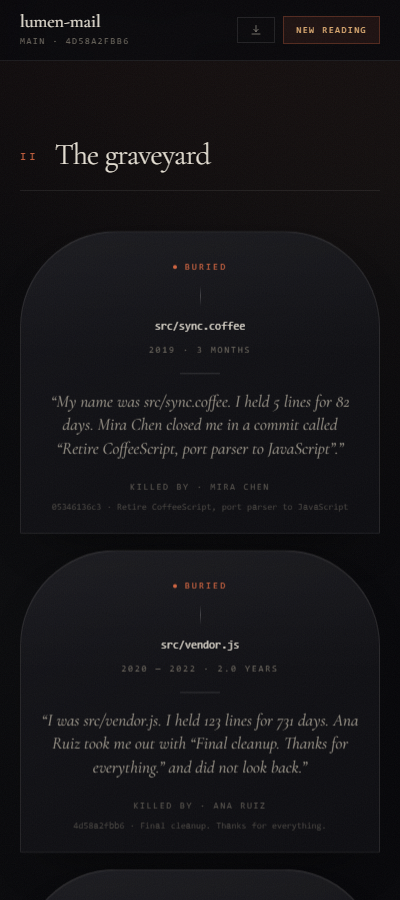
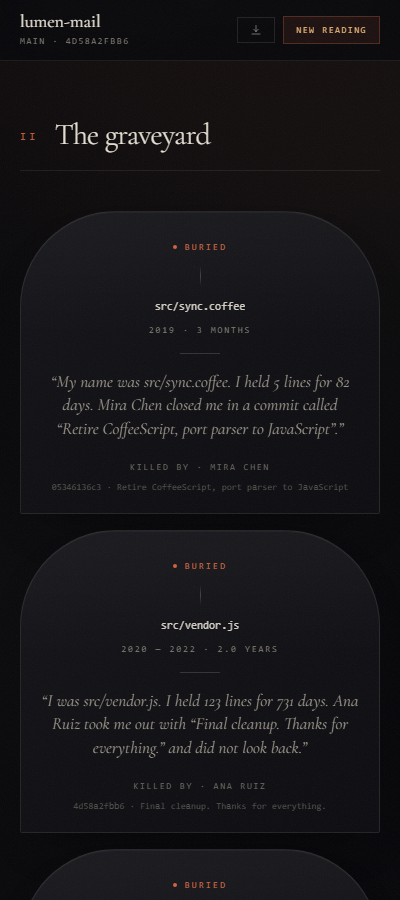
Skip unsuitable models, refresh screenshots, link the public repo

diff --git a/backend/lore.py b/backend/lore.py
@@ -97,8 +97,8 @@ def _pick_model(available: list[str]) -> str | None:
     def score(name: str) -> int:
         n = name.lower()
         s = 0
-        for family in ("qwen3", "gemma3", "gemma2", "llama3.1", "llama3", "mistral",
-                       "phi4", "phi3", "deepseek", "granite"):
+        for family in ("qwen3", "qwen2.5", "qwen2", "gemma3", "gemma2", "llama3.1",
+                       "llama3", "mistral", "phi4", "phi3", "deepseek", "granite"):
             if family in n:
                 s += 6
                 break
@@ -115,13 +115,19 @@ def _pick_model(available: list[str]) -> str | None:
             s -= 4
         return s
 
-    return max(available, key=score)
+    best = max(available, key=score)
+    # A vision or code model can spend the whole timeout before admitting it
+    # cannot write this. If nothing suitable is installed, fall back at once
+    # instead of making the visitor wait. OLLAMA_MODEL still forces a choice.
+    if score(best) <= 3:
+        return None
+    return best
 
 
 def _ollama_chat(messages: list[dict], json_mode: bool) -> str:
     model = _pick_model(_ollama_models())
     if not model:
-        raise ModelUnavailable("No Ollama model found")
+        raise ModelUnavailable("No suitable local model found")
     payload = {
         "model": model,
         "messages": messages,

diff --git a/backend/tests/test_lore.py b/backend/tests/test_lore.py
@@ -120,6 +120,22 @@ class PublicUrlTest(unittest.TestCase):
         )
 
 
+class ModelPickerTest(unittest.TestCase):
+    def test_vision_model_alone_is_skipped(self) -> None:
+        self.assertIsNone(lore._pick_model(["qwen3-vl:4b"]))
+
+    def test_coder_alone_is_skipped(self) -> None:
+        self.assertIsNone(lore._pick_model(["qwen2.5-coder:7b"]))
+
+    def test_instruct_model_beats_coder(self) -> None:
+        self.assertEqual(
+            lore._pick_model(["qwen2.5-coder:7b", "gemma3:4b"]), "gemma3:4b"
+        )
+
+    def test_text_thinking_model_is_usable(self) -> None:
+        self.assertEqual(lore._pick_model(["qwen3:8b"]), "qwen3:8b")
+
+
 class JsonBoundaryTest(unittest.TestCase):
     RECORD = {
         "meta": {

diff --git a/DEV_POST.md b/DEV_POST.md
@@ -3,13 +3,12 @@ title: "Every repository has ghosts: building RepoRequiem for Hacktoberfest Week
 published: false
 description: "A git archaeology tool that finds deleted files, revenants and cursed commits, then lets a local open-weight model speak for them — using only facts mined from git."
 tags: hf26challenge, ai, opensource, python
-cover_image: ""
+cover_image: "https://raw.githubusercontent.com/RameezHiro/reporequiem/main/docs/screenshots/hero-1440.png"
 ---
 
 <!--
 Draft notes (remove before publishing):
 - Upload the images in docs/screenshots/ to DEV and replace the relative paths.
-- Set the canonical repo URL and the live demo URL where marked TODO.
 - Read it once out loud; the voice should sound like you, not like a launch post.
 -->
 
@@ -26,7 +25,7 @@ reading is a haunted chatbot. I wanted the ghost to be something the machine was
 already carrying: the history it never shows you. So I built **RepoRequiem**, a
 git archaeology tool that exhumes a repository's dead and gives them a voice.
 
-![RepoRequiem landing page](docs/screenshots/landing-1440.png)
+![RepoRequiem landing page](https://raw.githubusercontent.com/RameezHiro/reporequiem/main/docs/screenshots/landing-1440.png)
 
 ## What it actually reads
 
@@ -52,7 +51,7 @@ On the bundled demo repository, that produces a record with 18 commits, 3
 authors, 8 buried files, one revenant, six cursed commits, one unmerged branch,
 and a CoffeeScript era that no longer exists anywhere in the working tree.
 
-![The dossier](docs/screenshots/hero-1440.png)
+![The dossier](https://raw.githubusercontent.com/RameezHiro/reporequiem/main/docs/screenshots/hero-1440.png)
 
 ## The rule: facts first, model second
 
@@ -102,7 +101,7 @@ Each buried file becomes a headstone. Open one and you get a certificate of
 removal: born, died, lifespan in days, churn, the hand that removed it, the
 commit message, and the last lines of the file as they were.
 
-![The graveyard](docs/screenshots/grave-1440.png)
+![The graveyard](https://raw.githubusercontent.com/RameezHiro/reporequiem/main/docs/screenshots/grave-1440.png)
 
 The details are what make it feel like a place rather than a dashboard. A file
 that lived for 82 days and was killed by a commit called "Retire CoffeeScript,
@@ -121,7 +120,7 @@ You can ask the archive questions. The retrieval step is intentionally simple:
 match the question against file paths, authors, and the facts block, then give
 the model only the matching evidence and the record.
 
-![The séance](docs/screenshots/seance-1440.png)
+![The séance](https://raw.githubusercontent.com/RameezHiro/reporequiem/main/docs/screenshots/seance-1440.png)
 
 If the model is unavailable, the séance answers from the same retrieved facts
 directly. If the record does not say, it says that. "The record does not say
@@ -154,18 +153,20 @@ mono. The voice is set in italic. You can tell which is which without a legend.
 
 ## Run it
 
-TODO: repository URL and live demo URL.
+The source is at **<https://github.com/RameezHiro/reporequiem>**. There is no
+hosted demo: the point is that the history never leaves the machine. Clone it
+and run it locally.
 
 ```bash
-git clone <repo>
+git clone https://github.com/RameezHiro/reporequiem.git
 cd reporequiem/frontend && npm install && npm run build
 cd ../backend && pip install -r requirements.txt
 uvicorn main:app --port 8000
 ```
 
 Open `http://127.0.0.1:8000`, or add `?demo=1` to walk straight into the bundled
-haunted repository. If you have Ollama running, it will pick a model; if you do
-not, the Archivist will read the record anyway.
+haunted repository. If you have Ollama running with a suitable text model, it
+will pick one; if you do not, the Archivist will read the record anyway.
 
 The stack is deliberately small: FastAPI, React, Vite, Tailwind. No database, no
 accounts, no telemetry. Scans live in memory and expire. Public clones are

diff --git a/README.md b/README.md
@@ -53,7 +53,7 @@ séance that answers only from the same facts.
 Requirements: **Python 3.11+**, **Node 20+**, **git**, and optionally **Ollama**.
 
 ```bash
-git clone <this-repo> reporequiem
+git clone https://github.com/RameezHiro/reporequiem.git
 cd reporequiem
 
 # 1. Frontend
@@ -76,7 +76,7 @@ from one port. Add `?demo=1` to open the bundled haunted repository directly.
 ### The local model
 
 ```bash
-ollama pull qwen3-vl:4b     # or any instruct model you like
+ollama pull gemma3:4b       # or any small text instruct model
 ollama serve
 ```
 
@@ -89,10 +89,13 @@ $env:OLLAMA_MODEL = "gemma3:4b"
 export OLLAMA_MODEL="gemma3:4b"
 ```
 
-The picker prefers text instruct models. A thinking model can spend the whole
-token budget before it writes the record, so if you see the offline Archivist
-with a thinking model installed, force a non-thinking instruct model (for
-example `gemma3:4b`) with `OLLAMA_MODEL`.
+The picker prefers text instruct models and skips vision and code models, which
+write weak prose or spend the whole budget thinking. If only unsuitable models
+are installed, the Archivist reads the record immediately instead of making you
+wait for a model that cannot finish. A thinking text model can still spend the
+token budget before it writes anything, so if you see the offline Archivist with
+one installed, force a non-thinking instruct model (for example `gemma3:4b`)
+with `OLLAMA_MODEL`.
 
 If generation fails for any reason, the reading still completes and the record
 says **"facts only · no model"** rather than pretending.

diff --git a/SUBMISSION.md b/SUBMISSION.md
@@ -7,11 +7,13 @@ Deadline: **31 October 2026**
 
 ## Before publishing
 
-- [ ] Put the code on a public repository and replace `<this-repo>` in `README.md`.
-- [ ] Add the repository URL and live demo URL to `DEV_POST.md` (`TODO` marker).
+- [x] Put the code on a public repository: <https://github.com/RameezHiro/reporequiem>.
+- [x] Add the repository URL to `DEV_POST.md`. There is no hosted demo; the post
+      explains that the history stays local.
 - [ ] Upload `docs/screenshots/*.png` to DEV and replace the relative image paths.
-      If Ollama is running, retake `hero-1440.png` and `grave-1440.png` so the
-      record shows a real model name instead of "offline archivist".
+      The current screenshots show the **offline Archivist**. That is the honest
+      state of this machine: the installed models are a vision model and a code
+      model, both of which the picker now skips. Do not relabel them as model output.
 - [ ] Record a 20–40 second screen capture (optional but strong): open demo →
       graveyard → open a headstone → ask the séance one question.
 - [ ] Read `DEV_POST.md` out loud and rewrite anything that does not sound like you.
